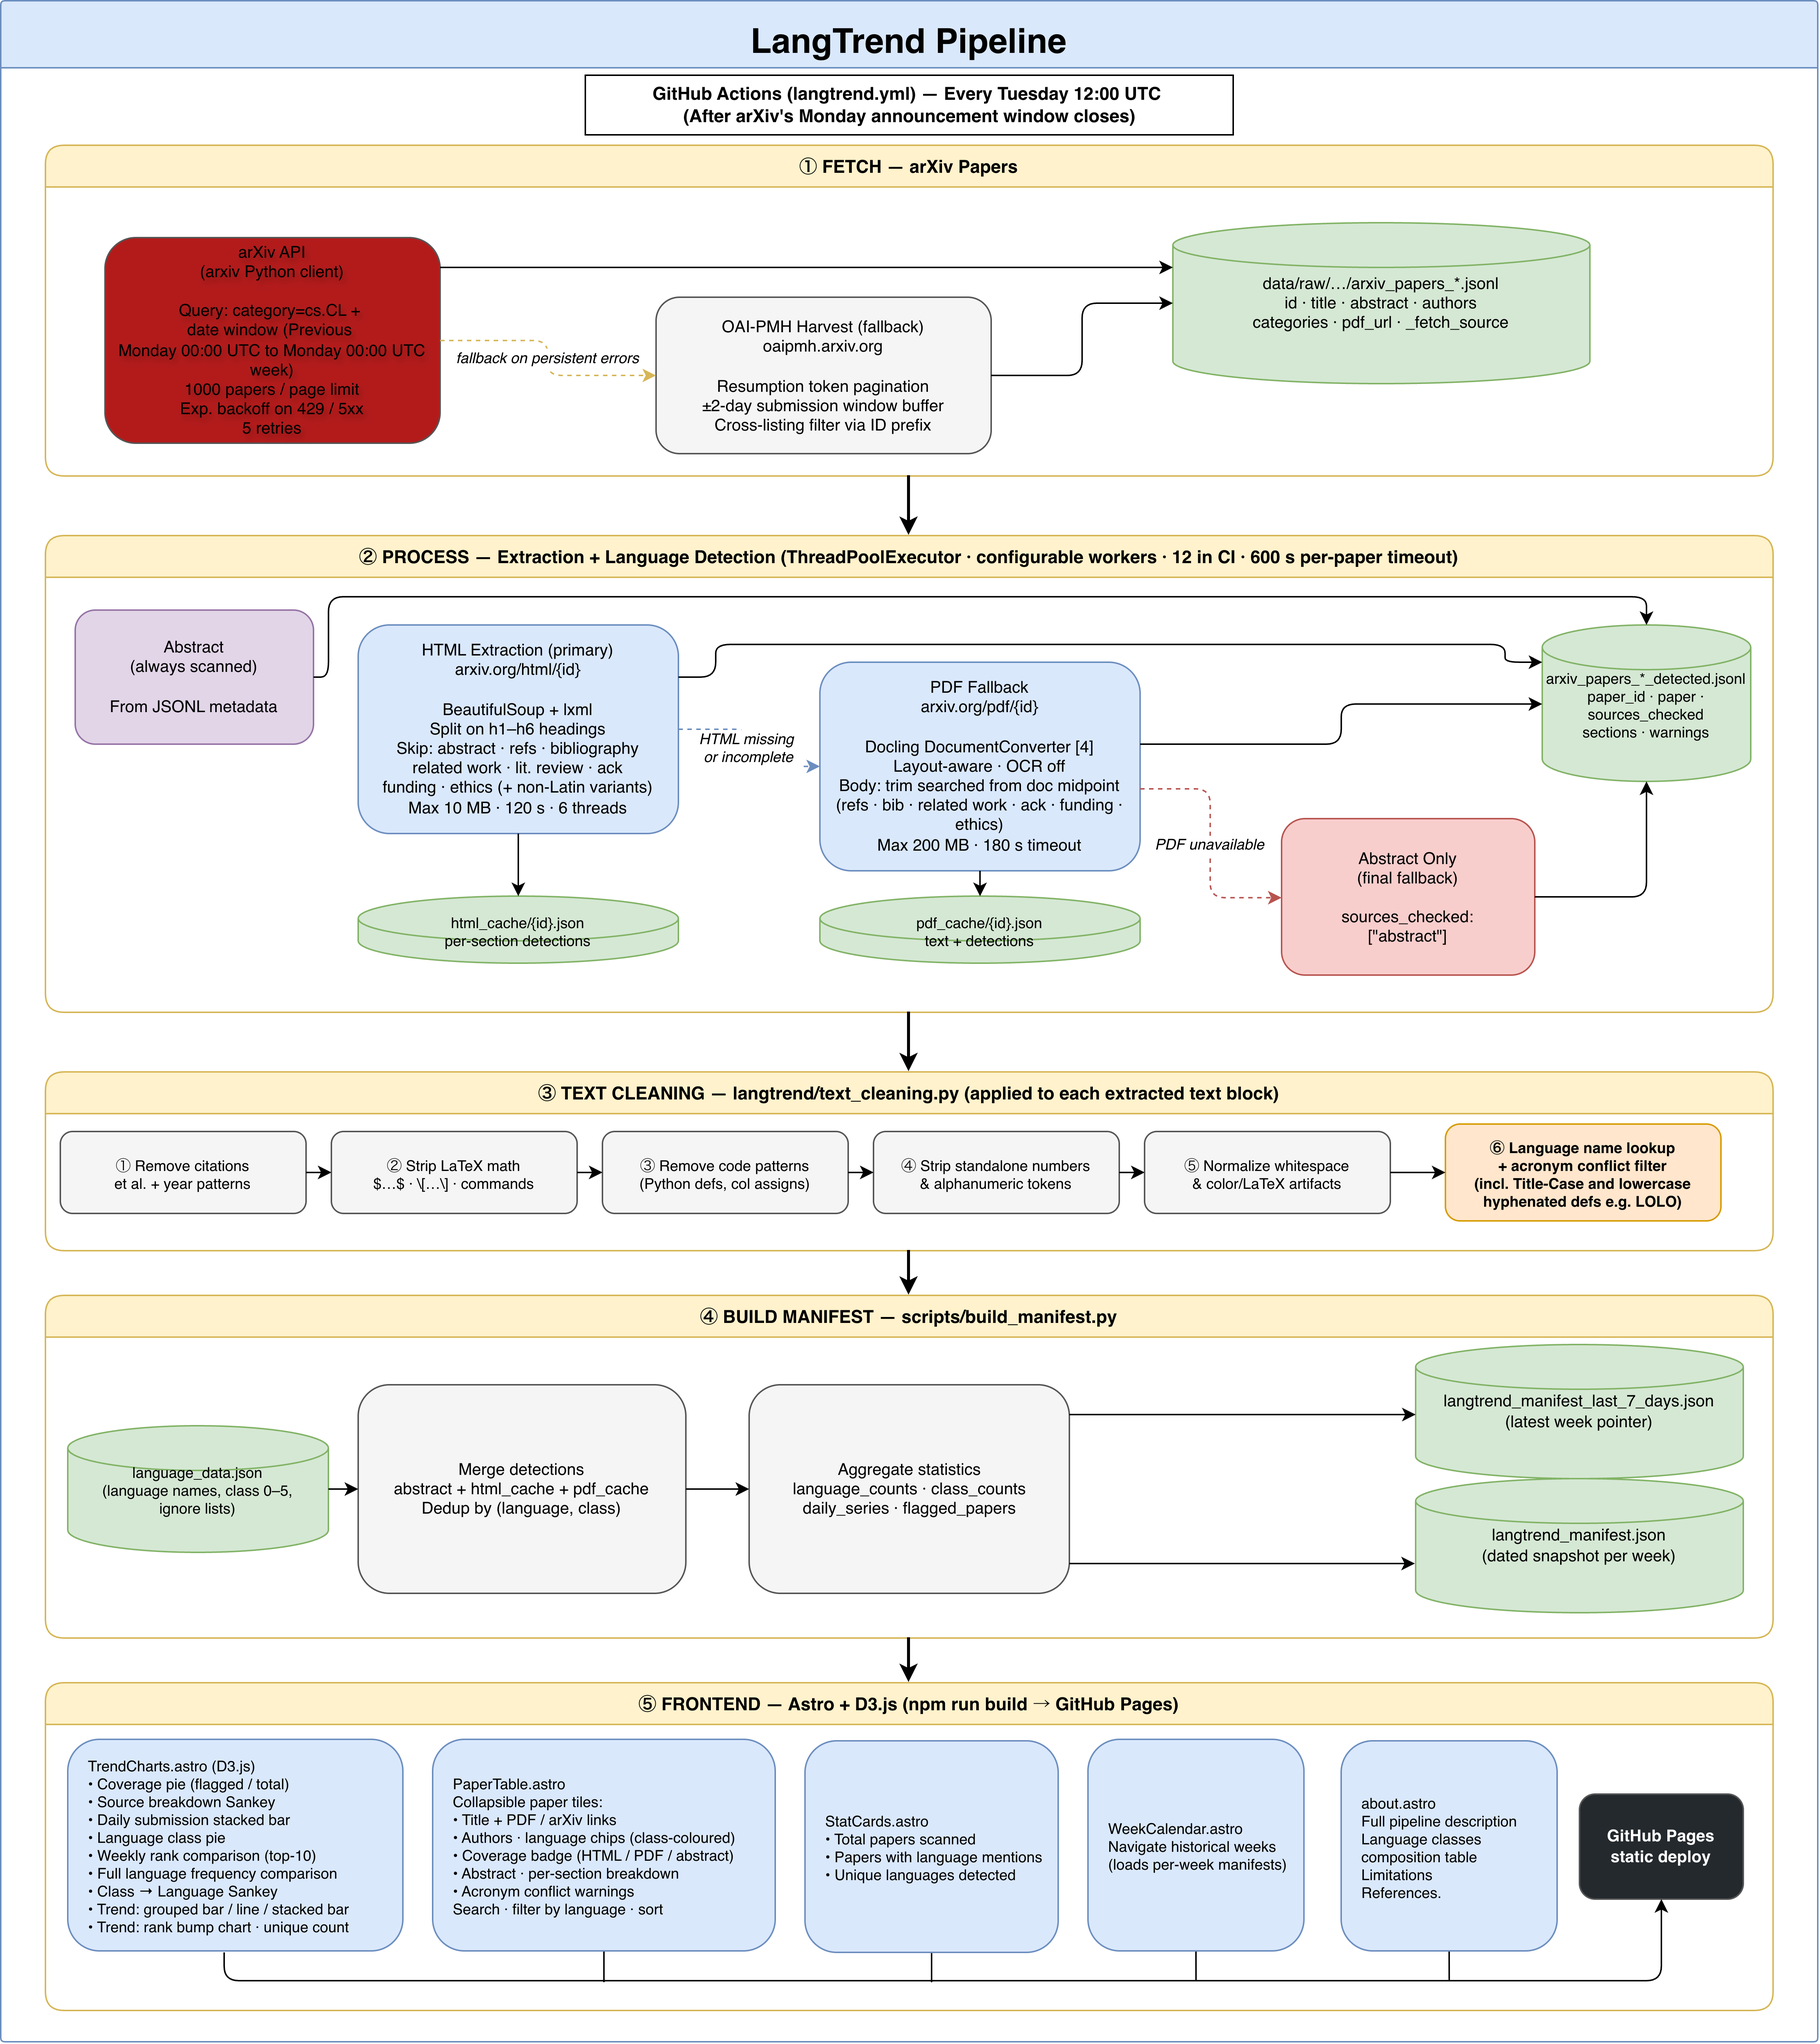
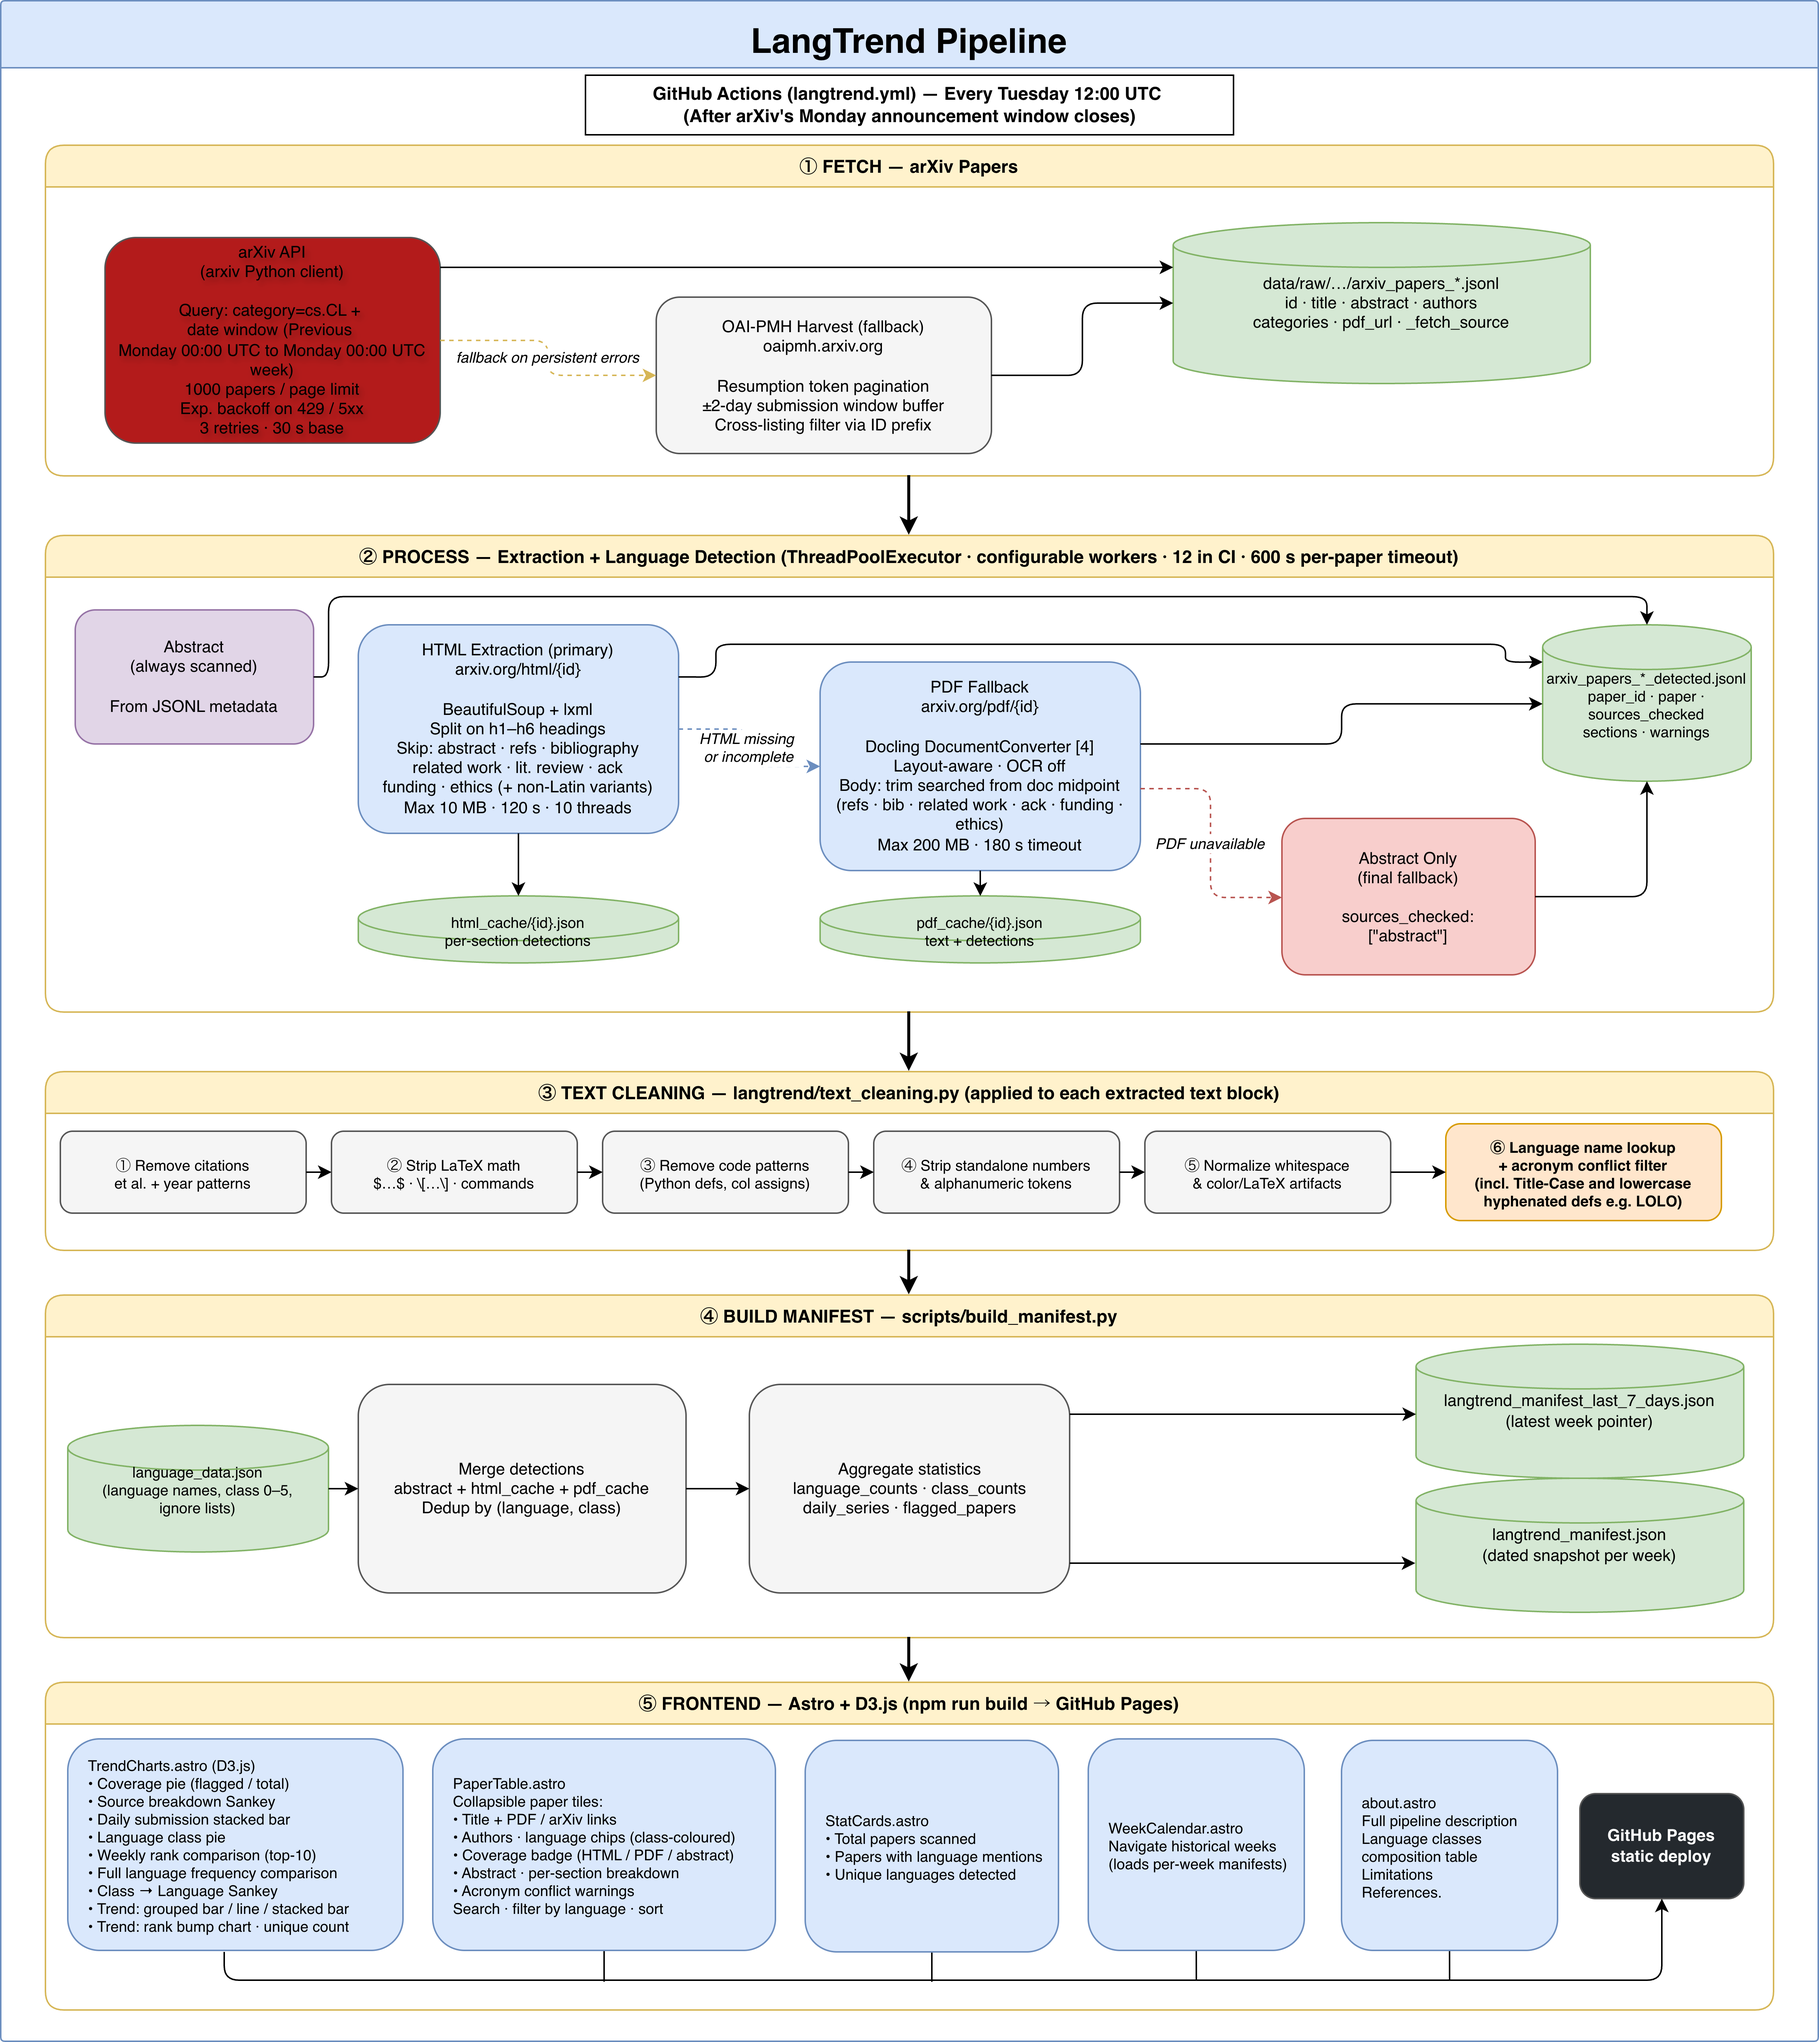
update the workflow to push fetched arxiv papers immediately, update user headers, reduce fetch waiting times, update image

diff --git a/langtrend/html_processor.py b/langtrend/html_processor.py
@@ -1,6 +1,7 @@
 from __future__ import annotations
 
 import json
+import random
 import re
 import threading
 from pathlib import Path
@@ -19,10 +20,25 @@ _ARXIV_SEMAPHORE = threading.Semaphore(10)
 _HTML_MAX_BYTES = 10 * 1024 * 1024  # 10 MB — enough for any paper's HTML
 _HTML_DOWNLOAD_TIMEOUT = 120  # wall-clock cap; arXiv keepalives defeat per-chunk read timeouts
 
+# Honest bot UA — arXiv's access policy asks automated tools to self-identify with contact info.
+# Update the email if you deploy this under a different project.
+ARXIV_USER_AGENT = (
+    "LangTrendBot (automated research tool; "
+    "https://github.com/kavindu-w/langtrend; "
+    "akwarnakulasuriya@gmail.com)"
+)
+
 
 def _get_session() -> requests.Session:
     if not hasattr(_thread_local, "session"):
-        _thread_local.session = requests.Session()
+        s = requests.Session()
+        s.headers.update({
+            "User-Agent": ARXIV_USER_AGENT,
+            "Accept": "text/html,application/xhtml+xml;q=0.9",
+            "Accept-Encoding": "gzip, deflate",
+            "Accept-Language": "en-US,en;q=0.9",
+        })
+        _thread_local.session = s
     return _thread_local.session
 
 _REMOVE_HEADINGS_DEFAULT = [
@@ -61,6 +77,8 @@ def fetch_arxiv_html(abs_url: str, timeout: int = 30) -> tuple[str | None, str |
     try:
         print(f"    [{abs_url}] waiting for semaphore…", flush=True)
         with _ARXIV_SEMAPHORE:
+            # Small random jitter to avoid simultaneous burst from all workers
+            _time.sleep(random.uniform(0.3, 1.2))
             t0 = _time.monotonic()
             print(f"    [{abs_url}] GET started…", flush=True)
             # connect=5s, read=15s per chunk — short enough to detect arXiv CDN throttling

diff --git a/scripts/process_papers.py b/scripts/process_papers.py
@@ -35,6 +35,7 @@ os.environ.setdefault("TOKENIZERS_PARALLELISM", "false")
 sys.path.insert(0, str(Path(__file__).parent.parent))
 
 from langtrend.manifest import build_detections
+from langtrend.html_processor import ARXIV_USER_AGENT
 from langtrend.text_cleaning import clean_paper_text_for_language_screening, detect_languages_in_text, trim_pdf_text_to_body, extract_paper_acronyms, find_language_acronym_conflicts
 from langtrend.html_processor import recheck_languages_from_html
 from langtrend.pdf_processor import PDFProcessor
@@ -93,7 +94,11 @@ def _download_pdf(pdf_url: str, pdf_dir: Path, paper_id: str) -> Path | None:
         tqdm.write(f"    [{paper_id}] PDF GET {pdf_url} (attempt {attempt}/{_PDF_DOWNLOAD_RETRIES})")
         t0 = _time.monotonic()
         try:
-            resp = requests.get(pdf_url, stream=True, timeout=(10, 30))
+            resp = requests.get(pdf_url, stream=True, timeout=(10, 30), headers={
+                "User-Agent": ARXIV_USER_AGENT,
+                "Accept": "application/pdf",
+                "Accept-Encoding": "gzip, deflate",
+            })
             resp.raise_for_status()
             tqdm.write(f"    [{paper_id}] PDF response {resp.status_code}, streaming…")
             downloaded = 0

diff --git a/scripts/fetch_arxiv_metadata.py b/scripts/fetch_arxiv_metadata.py
@@ -35,13 +35,13 @@ log = logging.getLogger(__name__)
 
 _DEFAULT_OUTPUT_DIR = Path(__file__).parent.parent / "data/raw/extracted_papers_metadata"
 _OAI_BASE_URL = "https://oaipmh.arxiv.org/oai"
-_OAI_USER_AGENT = "LangTrendHarvester/1.0 (contact@yourinstitution.edu; supports OAI-PMH)"
+_OAI_USER_AGENT = "LangTrendBot (automated research tool; https://github.com/kavindu-w/langtrend; akwarnakulasuriya@gmail.com; supports OAI-PMH)"
 _ARXIV_CLIENT_PAGE_SIZE = 1000
-_ARXIV_CLIENT_DELAY_SECONDS = 300.0
-_ARXIV_CLIENT_NUM_RETRIES = 5
-_FETCH_ATTEMPTS = 5
-_FETCH_BACKOFF_SECONDS = 300
-_OAI_REQUEST_TIMEOUT = 300
+_ARXIV_CLIENT_DELAY_SECONDS = 30.0
+_ARXIV_CLIENT_NUM_RETRIES = 2
+_FETCH_ATTEMPTS = 3
+_FETCH_BACKOFF_SECONDS = 30
+_OAI_REQUEST_TIMEOUT = 120
 _OAI_CREATED_WINDOW_BUFFER_DAYS = 2
 
 
